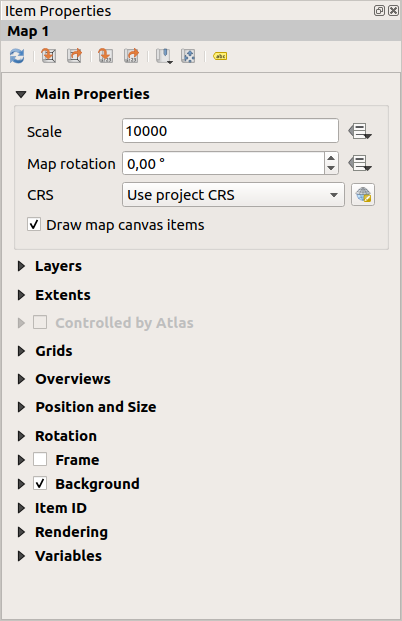
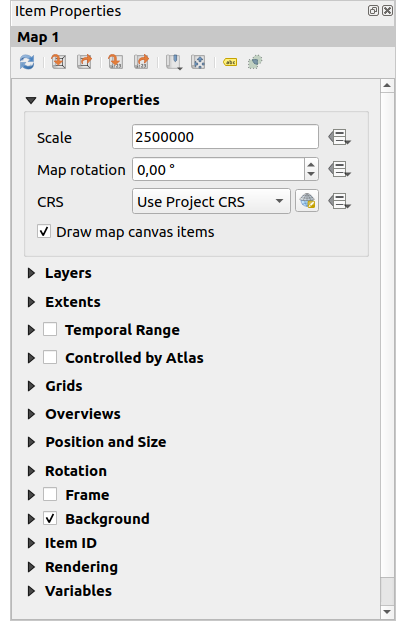
Update layout map item main properties
and add image for clipping map item

Changed region(s): [[0.0, 0.0, 1.0, 1.0]]

diff --git a/docs/user_manual/print_composer/composer_items/composer_map.rst b/docs/user_manual/print_composer/composer_items/composer_map.rst
@@ -98,6 +98,14 @@ functionalities:
     in the combobox. Again, the above mentioned clipping modes are available and
     labels can be forced to display only inside the clipping shape.
 
+  .. only:: html
+
+     .. _figure_layout_mapclipitem:
+
+     .. figure:: img/map_cliptoitem.gif
+        :align: center
+
+        Clipping a layout map item to shapes
 
 .. _`layout_main_properties`:
 
